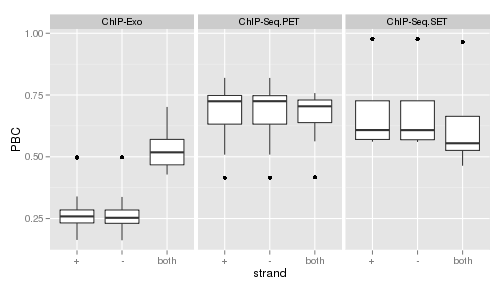
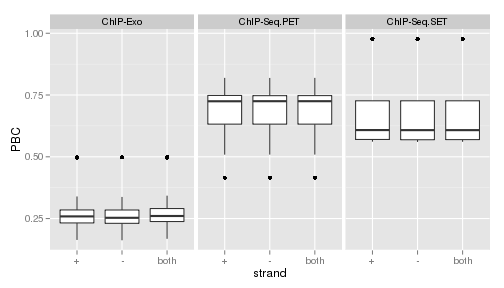
Change calculation of PCR to use spp package

diff --git a/Quality_Reports/PCR_bottleneck.md b/Quality_Reports/PCR_bottleneck.md
@@ -34,6 +34,7 @@ The following function was used to calculate the PBC:
 PBC <- function(file,cap = Inf)
 {
   require(GenomicAlignments)
+  require(spp)
   message(file)
   rr = readGAlignmentsFromBam(file,param = NULL)
   ss1 = subset(rr,subset =strand(rr)=="+")
@@ -43,7 +44,11 @@ PBC <- function(file,cap = Inf)
   tab = table(c(start(ss1),end(ss2)))
   PBC1 = round(sum(tab1 == 1)/sum(tab1 >= 1 & tab1 <= cap),4)
   PBC2 = round(sum(tab2 == 1)/sum(tab2 >= 1 & tab2 <= cap),4)
-  PBC = round(sum(tab == 1) / sum(tab >= 1 & tab <= 4),4)
+  chip.data = read.bam.tags(file)
+  table.chip.data = lapply(chip.data$tags,table)
+  nUniq = sum(sapply(table.chip.data,function(x) sum(x==1)))
+  nTotal =  sum(sapply(table.chip.data,length))
+  PBC = round(nUniq/nTotal ,4)
   message("PBC +:",PBC1)
   message("PBC -:",PBC2)
   message("PBC:",PBC)
@@ -77,51 +82,51 @@ We can see:
 
 |                                        | PBC_plus| PBC_minus|    PBC|
 |:---------------------------------------|--------:|---------:|------:|
-|run101_Input_posO2_042814_qc.sorted.bam |   0.9773|    0.9763| 0.9650|
-|run62_Input_negO2_042814_qc.sorted.bam  |   0.6431|    0.6434| 0.4638|
-|run80_sig70_negO2_042814_qc.sorted.bam  |   0.5732|    0.5721| 0.5464|
-|run80_sig70_posO2_042814_qc.sorted.bam  |   0.5611|    0.5600| 0.5631|
+|run101_Input_posO2_042814_qc.sorted.bam |   0.9773|    0.9763| 0.9768|
+|run62_Input_negO2_042814_qc.sorted.bam  |   0.6431|    0.6434| 0.6433|
+|run80_sig70_negO2_042814_qc.sorted.bam  |   0.5732|    0.5721| 0.5726|
+|run80_sig70_posO2_042814_qc.sorted.bam  |   0.5611|    0.5600| 0.5606|
 
 #### ChIP - Seq - PET
 
 |                              | PBC_plus| PBC_minus|    PBC|
 |:-----------------------------|--------:|---------:|------:|
-|edsn1369_042814_qc.sorted.bam |   0.8194|    0.8192| 0.7114|
-|edsn1396_042814_qc.sorted.bam |   0.7815|    0.7808| 0.7580|
-|edsn1397_042814_qc.sorted.bam |   0.7369|    0.7359| 0.7506|
-|edsn1398_042814_qc.sorted.bam |   0.6797|    0.6798| 0.6972|
-|edsn1399_042814_qc.sorted.bam |   0.5086|    0.5089| 0.5626|
-|edsn1400_042814_qc.sorted.bam |   0.7328|    0.7317| 0.7333|
-|edsn1401_042814_qc.sorted.bam |   0.7367|    0.7361| 0.7287|
-|edsn1402_042814_qc.sorted.bam |   0.7167|    0.7180| 0.7213|
-|edsn1403_042814_qc.sorted.bam |   0.5490|    0.5493| 0.5958|
-|edsn1416_042814_qc.sorted.bam |   0.8084|    0.8086| 0.6795|
-|edsn788_042814_qc.sorted.bam  |   0.6599|    0.6597| 0.6525|
-|edsn790_042814_qc.sorted.bam  |   0.4153|    0.4152| 0.4164|
+|edsn1369_042814_qc.sorted.bam |   0.8194|    0.8192| 0.8193|
+|edsn1396_042814_qc.sorted.bam |   0.7815|    0.7808| 0.7812|
+|edsn1397_042814_qc.sorted.bam |   0.7369|    0.7359| 0.7364|
+|edsn1398_042814_qc.sorted.bam |   0.6797|    0.6798| 0.6798|
+|edsn1399_042814_qc.sorted.bam |   0.5086|    0.5089| 0.5087|
+|edsn1400_042814_qc.sorted.bam |   0.7328|    0.7317| 0.7323|
+|edsn1401_042814_qc.sorted.bam |   0.7367|    0.7361| 0.7364|
+|edsn1402_042814_qc.sorted.bam |   0.7167|    0.7180| 0.7174|
+|edsn1403_042814_qc.sorted.bam |   0.5490|    0.5493| 0.5492|
+|edsn1416_042814_qc.sorted.bam |   0.8084|    0.8086| 0.8085|
+|edsn788_042814_qc.sorted.bam  |   0.6599|    0.6597| 0.6598|
+|edsn790_042814_qc.sorted.bam  |   0.4153|    0.4152| 0.4153|
 
 #### ChIP - Exo
 
 |                              | PBC_plus| PBC_minus|    PBC|
 |:-----------------------------|--------:|---------:|------:|
-|edsn1310_042814_qc.sorted.bam |   0.2849|    0.2805| 0.5952|
-|edsn1311_042814_qc.sorted.bam |   0.2800|    0.2846| 0.5207|
-|edsn1312_042814_qc.sorted.bam |   0.2545|    0.2482| 0.5181|
-|edsn1313_042814_qc.sorted.bam |   0.3393|    0.3376| 0.5929|
-|edsn1314_042814_qc.sorted.bam |   0.2691|    0.2706| 0.4674|
-|edsn1315_042814_qc.sorted.bam |   0.2332|    0.2355| 0.5281|
-|edsn1316_042814_qc.sorted.bam |   0.2587|    0.2529| 0.5703|
-|edsn1317_042814_qc.sorted.bam |   0.2656|    0.2657| 0.5515|
-|edsn1318_042814_qc.sorted.bam |   0.3036|    0.3011| 0.4743|
-|edsn1319_042814_qc.sorted.bam |   0.4975|    0.4976| 0.6856|
-|edsn1320_042814_qc.sorted.bam |   0.2151|    0.2157| 0.4502|
-|edsn1321_042814_qc.sorted.bam |   0.2140|    0.2157| 0.4851|
-|edsn930_042814_qc.sorted.bam  |   0.4964|    0.4985| 0.7017|
-|edsn931_042814_qc.sorted.bam  |   0.2136|    0.2177| 0.4282|
-|edsn932_042814_qc.sorted.bam  |   0.2950|    0.2939| 0.6234|
-|edsn933_042814_qc.sorted.bam  |   0.2489|    0.2455| 0.4606|
-|edsn934_042814_qc.sorted.bam  |   0.1749|    0.1783| 0.5256|
-|edsn935_042814_qc.sorted.bam  |   0.2604|    0.2576| 0.4395|
-|edsn936_042814_qc.sorted.bam  |   0.2323|    0.2307| 0.5109|
-|edsn937_042814_qc.sorted.bam  |   0.2480|    0.2456| 0.4529|
-|edsn938_042814_qc.sorted.bam  |   0.1633|    0.1621| 0.5067|
+|edsn1310_042814_qc.sorted.bam |   0.2849|    0.2805| 0.2904|
+|edsn1311_042814_qc.sorted.bam |   0.2800|    0.2846| 0.2886|
+|edsn1312_042814_qc.sorted.bam |   0.2545|    0.2482| 0.2561|
+|edsn1313_042814_qc.sorted.bam |   0.3393|    0.3376| 0.3427|
+|edsn1314_042814_qc.sorted.bam |   0.2691|    0.2706| 0.2749|
+|edsn1315_042814_qc.sorted.bam |   0.2332|    0.2355| 0.2480|
+|edsn1316_042814_qc.sorted.bam |   0.2587|    0.2529| 0.2635|
+|edsn1317_042814_qc.sorted.bam |   0.2656|    0.2657| 0.2773|
+|edsn1318_042814_qc.sorted.bam |   0.3036|    0.3011| 0.3048|
+|edsn1319_042814_qc.sorted.bam |   0.4975|    0.4976| 0.4992|
+|edsn1320_042814_qc.sorted.bam |   0.2151|    0.2157| 0.2169|
+|edsn1321_042814_qc.sorted.bam |   0.2140|    0.2157| 0.2172|
+|edsn930_042814_qc.sorted.bam  |   0.4964|    0.4985| 0.4969|
+|edsn931_042814_qc.sorted.bam  |   0.2136|    0.2177| 0.2170|
+|edsn932_042814_qc.sorted.bam  |   0.2950|    0.2939| 0.2995|
+|edsn933_042814_qc.sorted.bam  |   0.2489|    0.2455| 0.2506|
+|edsn934_042814_qc.sorted.bam  |   0.1749|    0.1783| 0.1799|
+|edsn935_042814_qc.sorted.bam  |   0.2604|    0.2576| 0.2602|
+|edsn936_042814_qc.sorted.bam  |   0.2323|    0.2307| 0.2380|
+|edsn937_042814_qc.sorted.bam  |   0.2480|    0.2456| 0.2496|
+|edsn938_042814_qc.sorted.bam  |   0.1633|    0.1621| 0.1679|
 
